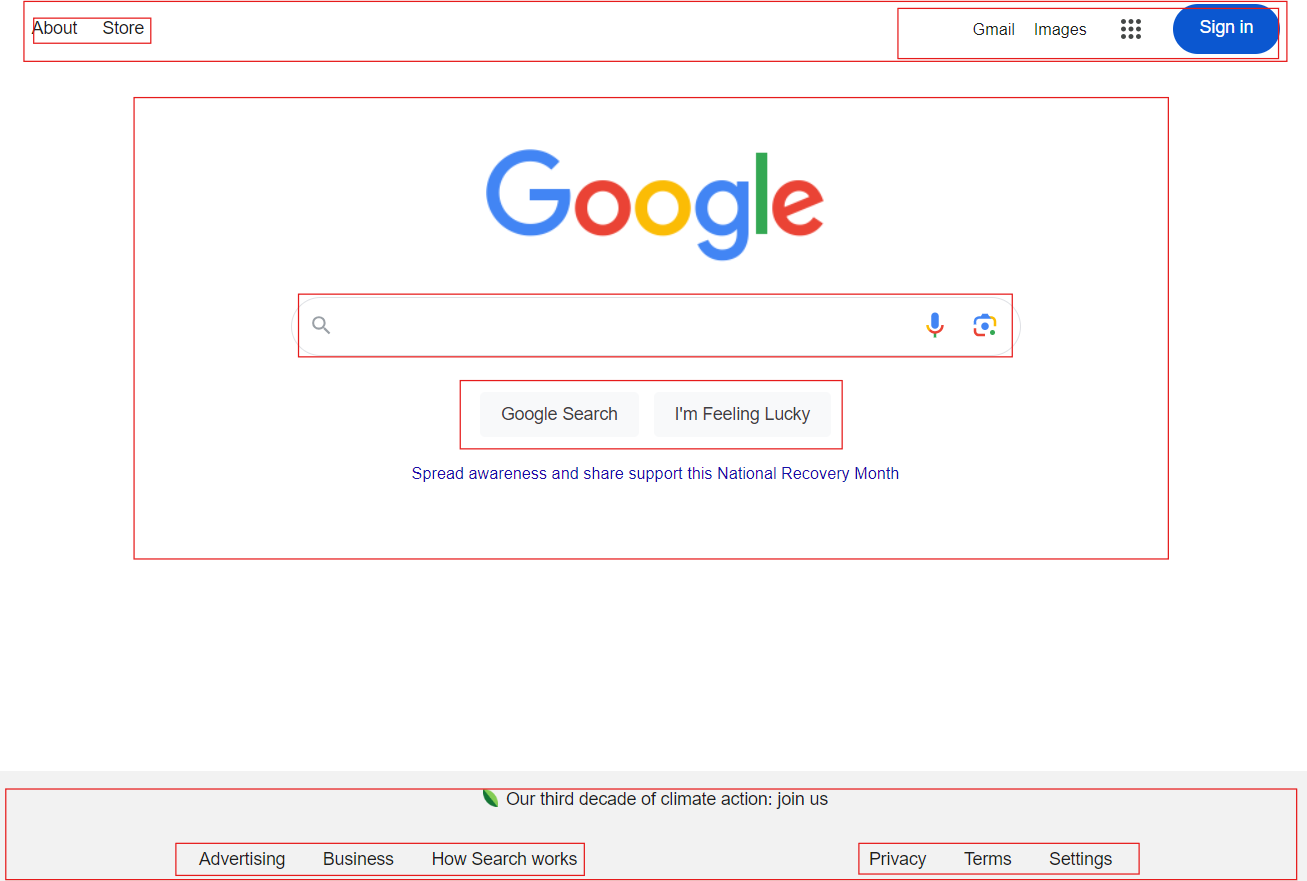
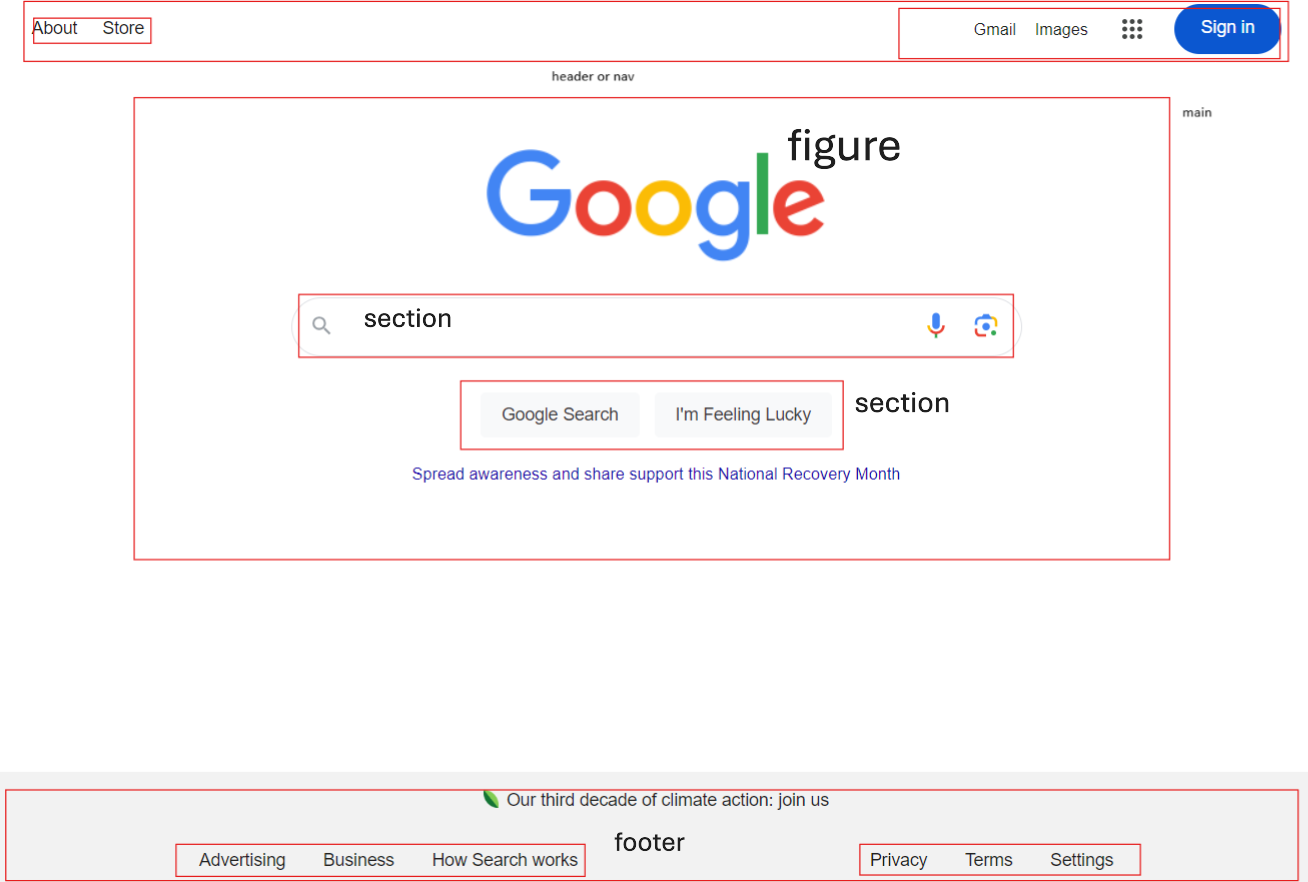
prework 9/30

diff --git a/week2/index.html b/week2/index.html
@@ -1,0 +1,41 @@
+<!DOCTYPE html>
+<html lang="en">
+<head>
+    <meta charset="UTF-8">
+    <meta name="viewport" content="width=device-width, initial-scale=1.0">
+    <title>Tutorial</title>
+</head>
+<body>
+    <header>
+        <img src="" alt="">
+        <nav>
+            <ul>
+                <li>
+                    <a href=""></a>
+                </li>
+                <li>
+                    <a href=""></a>
+                </li>
+            </ul>
+        </nav>
+
+    </header>
+    <main>
+        <section>
+            <h2>Benefits</h2>
+            <p>blah blah blah blah</p>
+        </section>
+        <section>
+            <h2>How it works</h2>
+            <p>blah blah</p>
+        </section>
+    </main>
+    <footer>
+        <ul>
+            <li>
+                <a href = ""></a>
+            </li>
+        </ul>
+    </footer>
+</body>
+</html>
